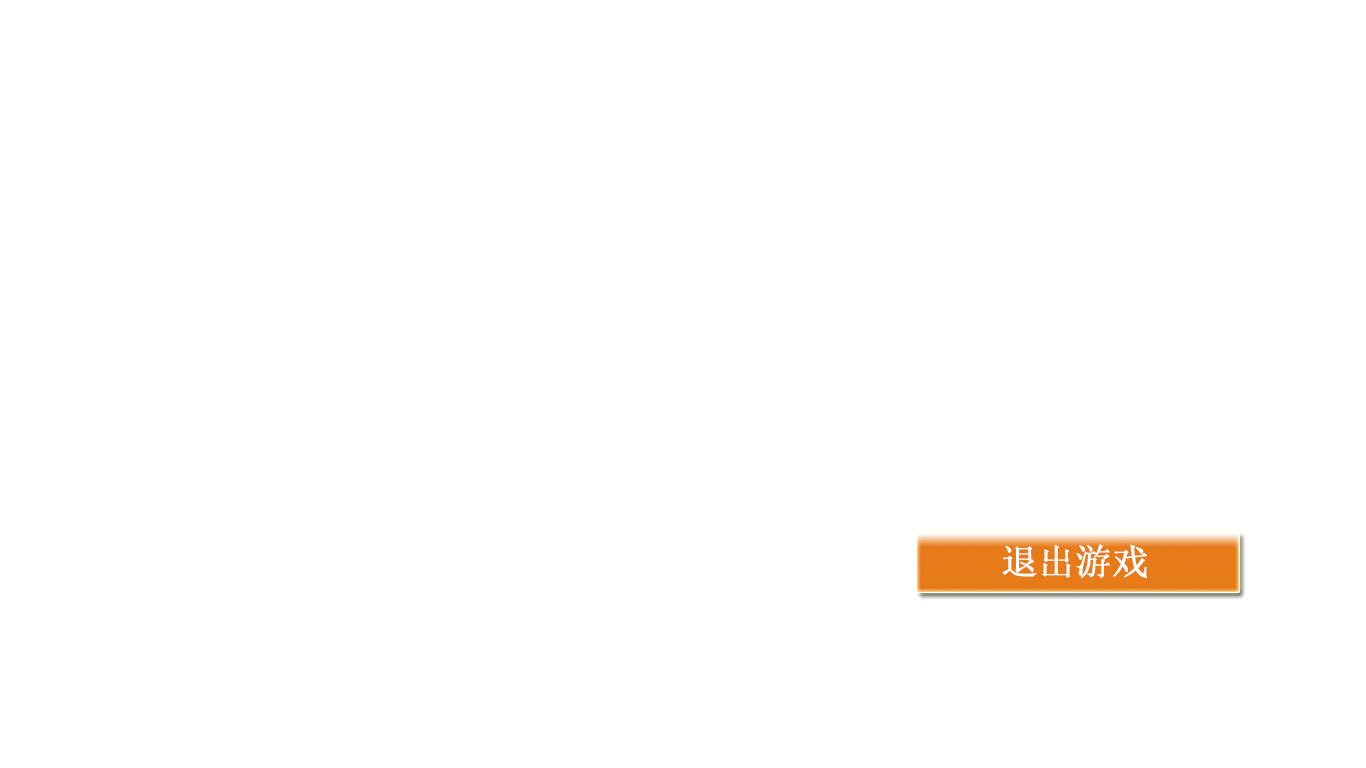
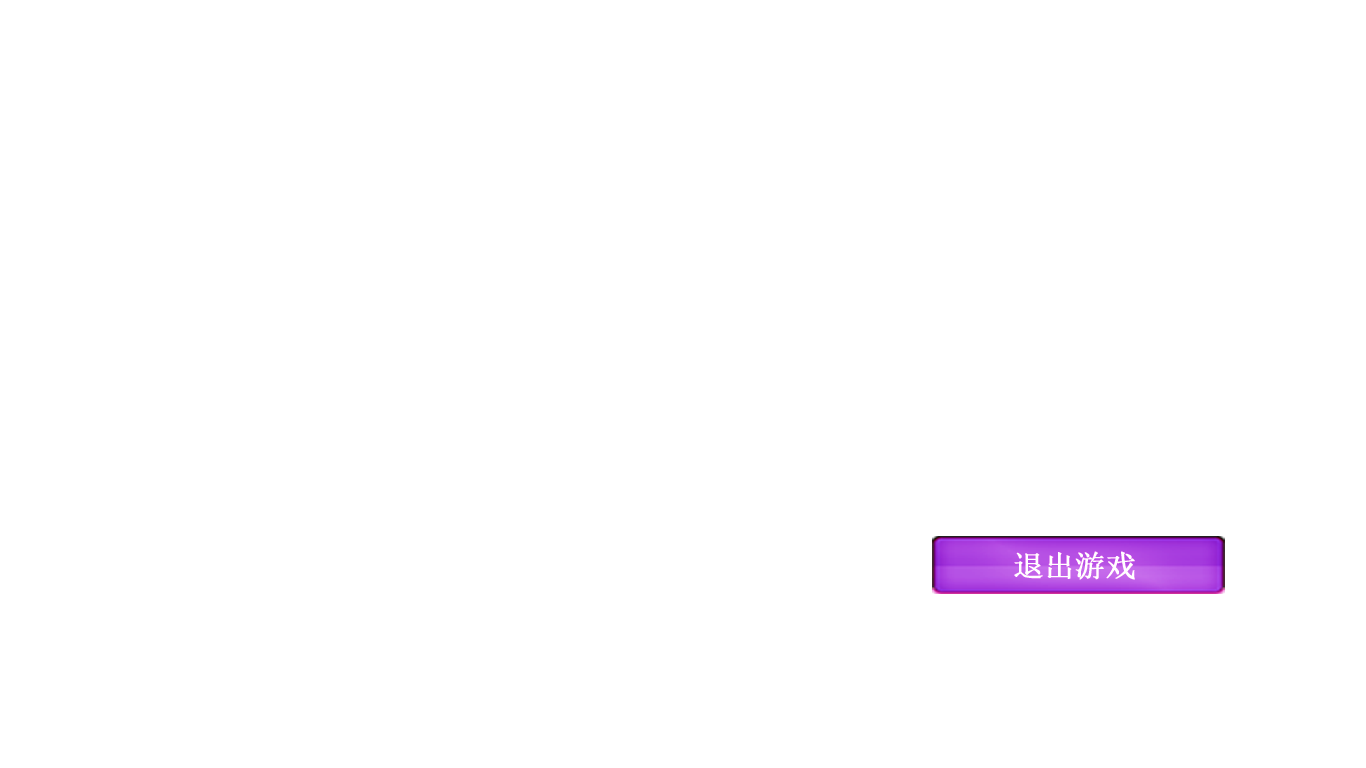
特效

Changed region(s): [[0.6457, 0.6875, 0.9224, 0.7812]]

diff --git a/src/UI/MainFrame.java b/src/UI/MainFrame.java
@@ -44,7 +44,7 @@ public class MainFrame {
         //displaymode dpm=new displaymode();
         //dpm.setto1024();
 		//new GameFrame();
-		button[0] = ImageIO.read(new FileInputStream("ui\\buttons\\bg.png"));
+		button[0] = ImageIO.read(new FileInputStream("ui\\ui4\\log.png"));
 		button[1] = ImageIO.read(new FileInputStream("ui\\buttons\\button1.png"));
 		button[2] = ImageIO.read(new FileInputStream("ui\\buttons\\button2.png"));
 		button[3] = ImageIO.read(new FileInputStream("ui\\buttons\\button3.png"));
